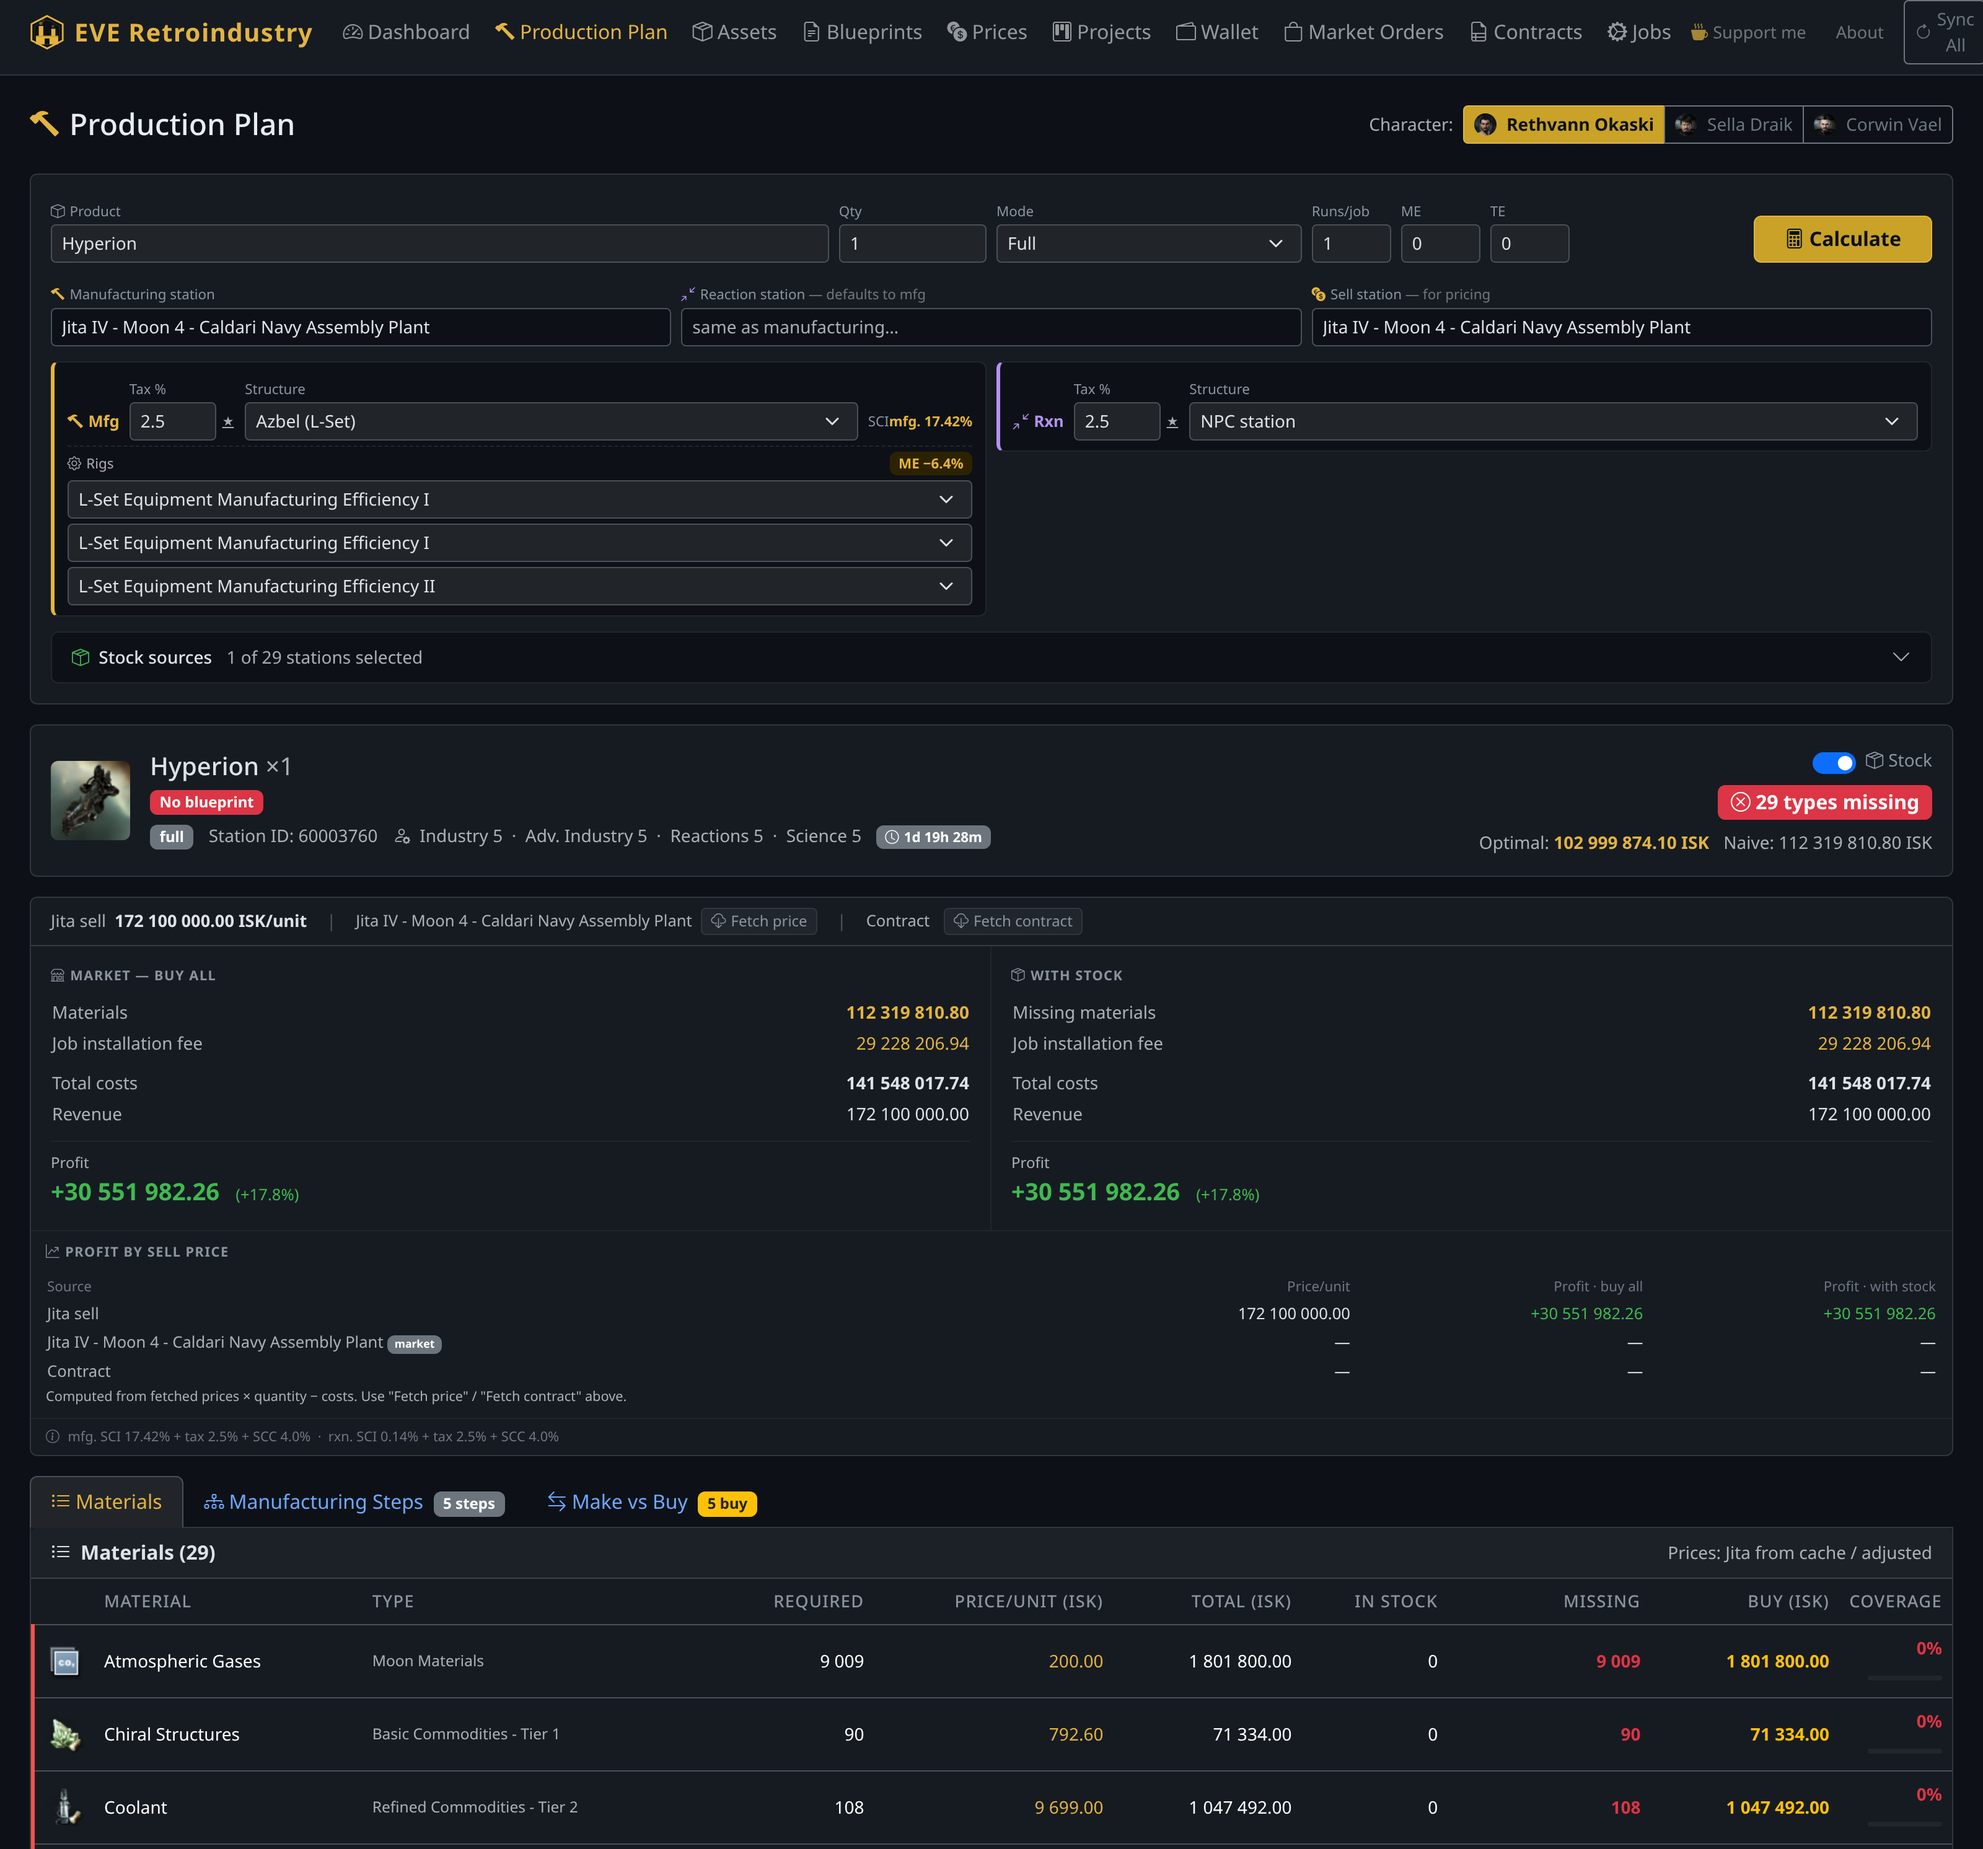
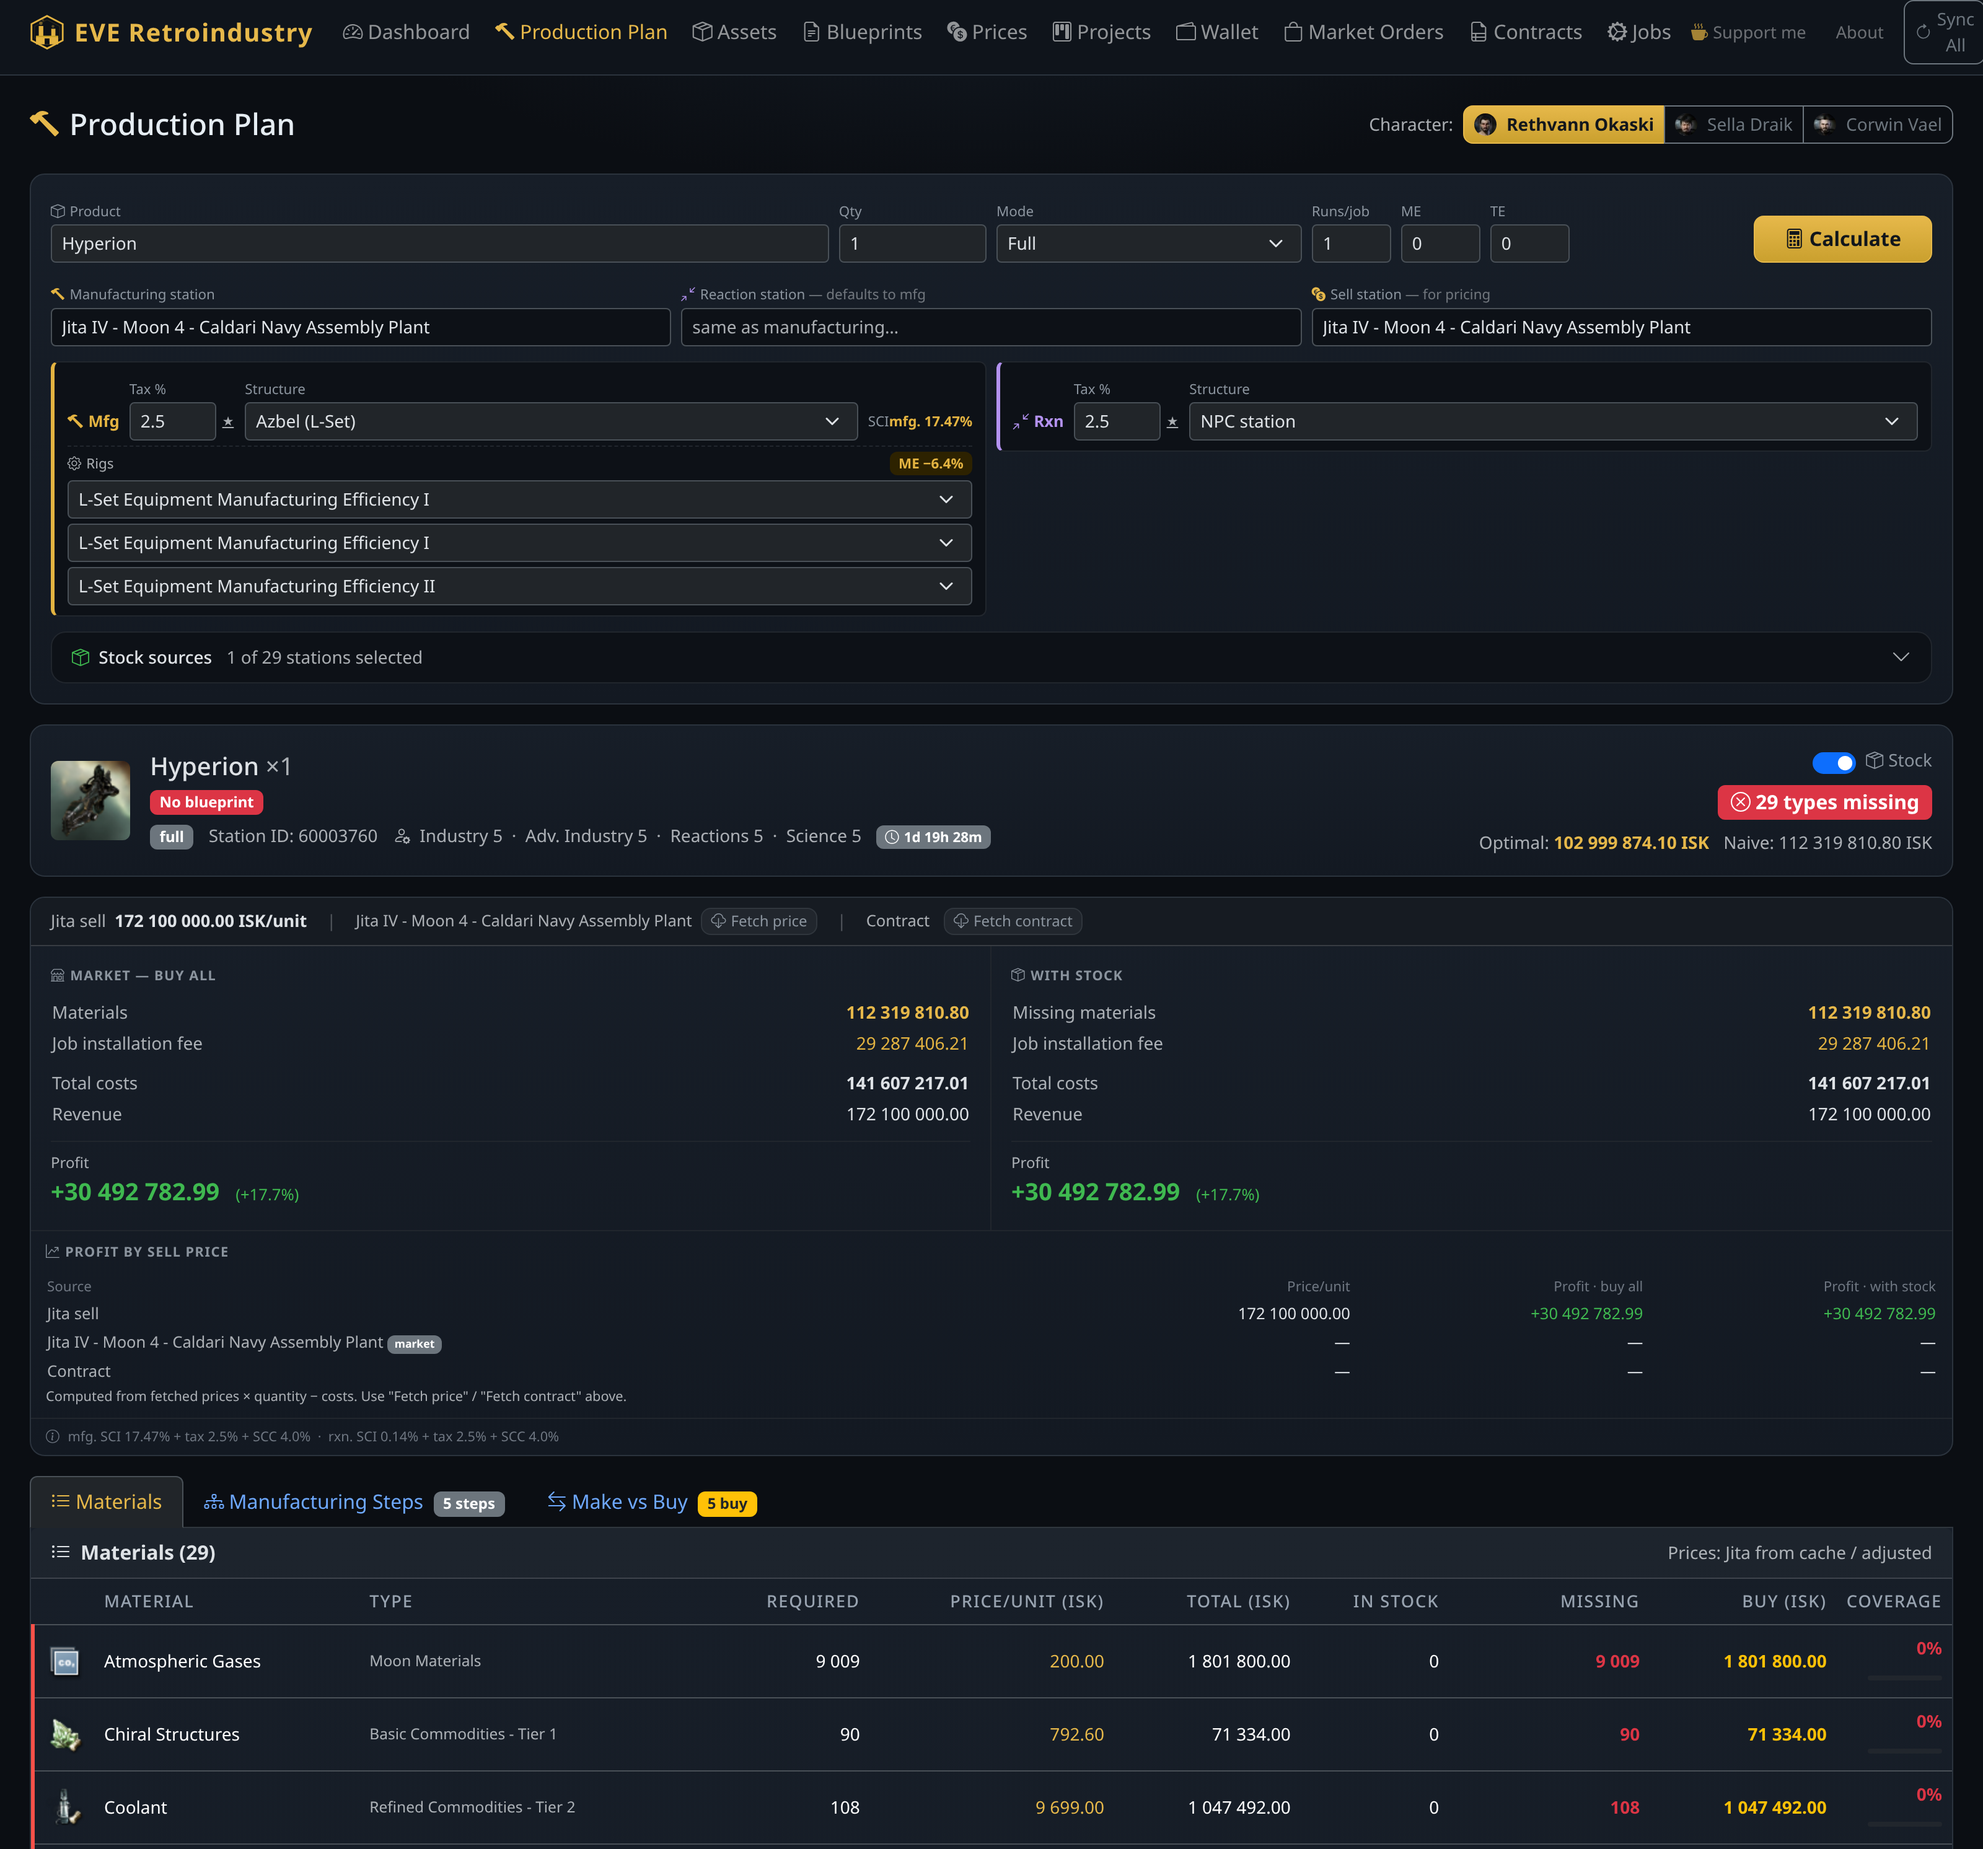
design: adopt the 'Aurum' theme (unified colors, cards, buttons, navbar)
Warmer gold accent (#e6b84a), rounded 12px cards with a subtle vertical
gradient, gradient primary buttons, unified 8px button radius, refined navbar
and table headers, soft radial page background. README screenshots regenerated.

diff --git a/app/web/templates/base.html b/app/web/templates/base.html
@@ -9,14 +9,18 @@
   <link rel="stylesheet" href="/static/bootstrap-icons.min.css">
   <style>
     :root {
-      --eve-gold:   #e3b341;
-      --eve-amber:  #c9a227;
+      --eve-gold:   #e6b84a;
+      --eve-amber:  #caa02e;
       --eve-dim:    #8b7020;
-      --eve-bg:     #0d1117;
-      --eve-card:   #161b22;
-      --eve-border: #30363d;
+      --eve-bg:     #0b0e13;
+      --eve-card:   #161c25;
+      --eve-border: #2b333d;
     }
-    body { background: var(--eve-bg); color: #e6edf3; }
+    body {
+      background: radial-gradient(1100px 520px at 50% -8%, #17202b 0%, #0b0e13 55%) #0b0e13;
+      background-attachment: fixed;
+      color: #e6edf3;
+    }
 
     /* ── Navbar ── */
     .navbar-brand { font-weight: 700; letter-spacing: .04em; color: var(--eve-gold) !important; display:flex; align-items:center; gap:.5rem; }
@@ -26,11 +30,12 @@
     .navbar-nav .nav-link { white-space: nowrap; }
 
     /* ── Cards / Tables ── */
-    .card  { background: var(--eve-card); border-color: var(--eve-border); }
+    .card  { background: linear-gradient(180deg, #171e28, #131922); border: 1px solid var(--eve-border); border-radius: 12px; }
     .table { --bs-table-bg: transparent; --bs-table-striped-bg: #1c2128; }
-    .table th { color: #8b949e; font-weight: 500; font-size: .85rem; text-transform: uppercase; letter-spacing: .05em; }
+    .table th { color: #98a3b0; font-weight: 500; font-size: .85rem; text-transform: uppercase; letter-spacing: .07em; }
 
     /* ── Badges ── */
+    .badge { border-radius: 6px; }
     .badge-bpo { background: #1f6feb; }
     .badge-bpc { background: #6e40c9; }
 
@@ -51,9 +56,10 @@
     a         { color: var(--eve-amber); }
     a:hover   { color: var(--eve-gold); }
 
-    /* ── Primary button ── */
-    .btn-eve       { background: var(--eve-amber); border: 1px solid var(--eve-gold); color: #0d1117; font-weight: 600; }
-    .btn-eve:hover { background: var(--eve-gold);  border-color: var(--eve-gold); color: #0d1117; }
+    /* ── Buttons ── */
+    .btn, .btn-sm { border-radius: 8px; }
+    .btn-eve       { background: linear-gradient(180deg, #e6b84a, #caa02e); border: 1px solid #e6b84a; color: #12161c; font-weight: 600; }
+    .btn-eve:hover { background: linear-gradient(180deg, #efc35c, #d4ab33); border-color: #efc35c; color: #12161c; }
 
     /* Ko-fi brand button (styled locally — no external CDN dependency) */
     .btn-kofi       { background: #ff5e5b; border: 1px solid #ff5e5b; color: #fff; font-weight: 700; }
@@ -73,7 +79,7 @@
   </style>
 </head>
 <body>
-<nav class="navbar navbar-expand-lg navbar-dark sticky-top" style="background:var(--eve-card,#161b22); border-bottom:1px solid #30363d;">
+<nav class="navbar navbar-expand-lg navbar-dark sticky-top" style="background:#0f141b; border-bottom:1px solid var(--eve-border);">
   <div class="container-fluid px-4">
     <a class="navbar-brand" href="/">
       {# EVE Retroindustry logo — hexagonal factory icon #}
